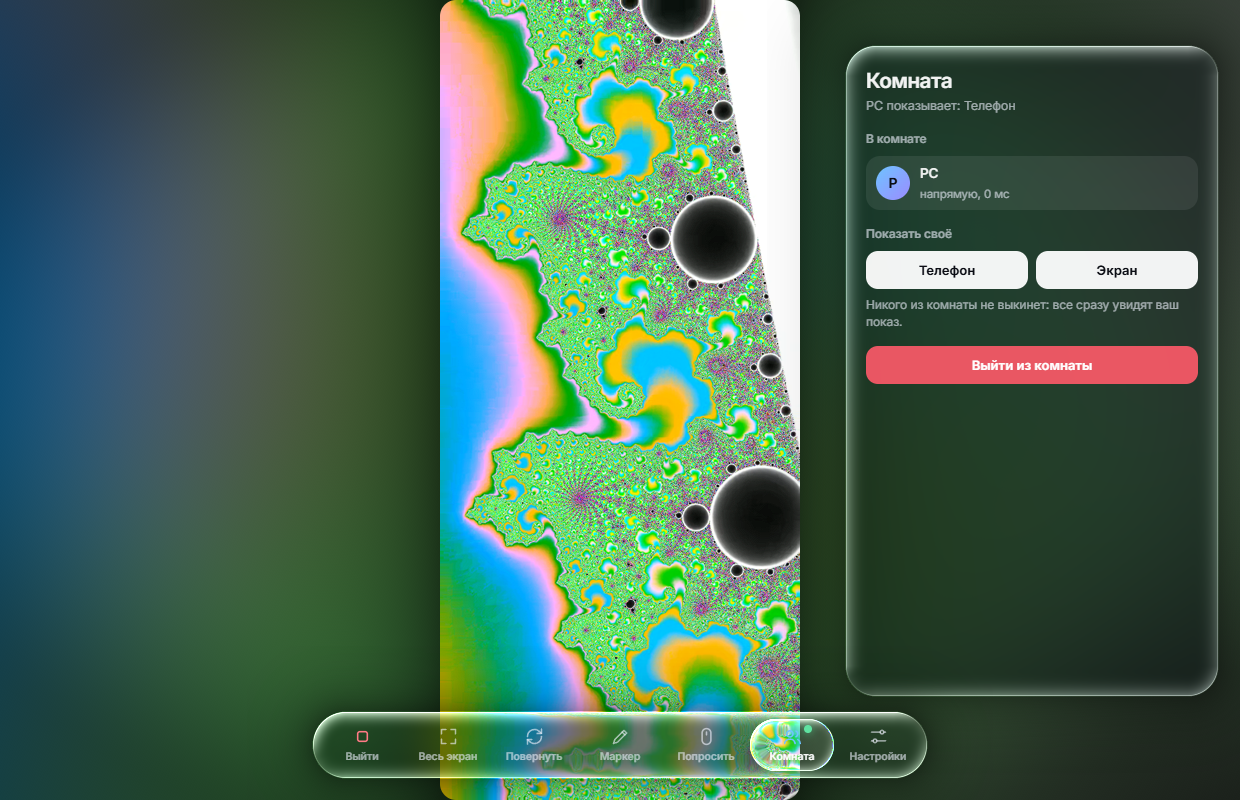
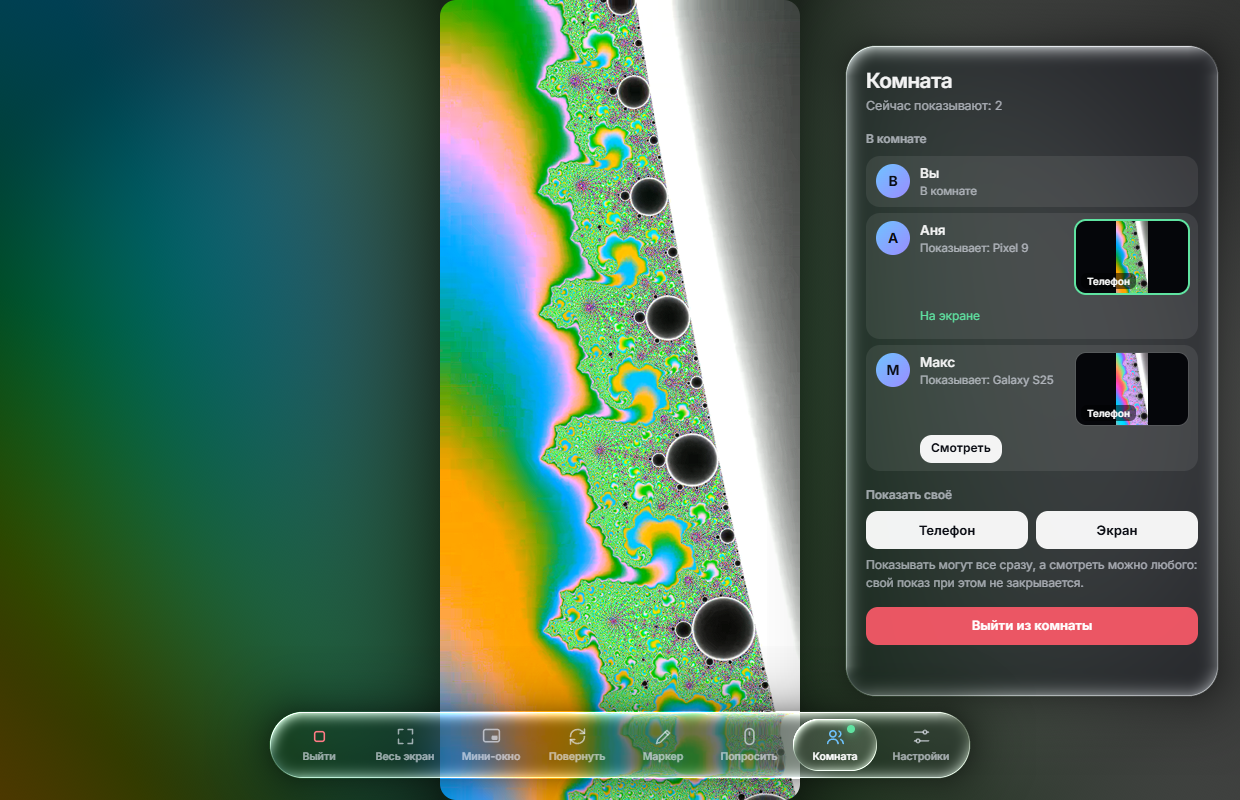
Vitro 0.3.0: project page

diff --git a/docs/index.html b/docs/index.html
@@ -85,8 +85,9 @@
     <div>
       <ul>
         <li><b>Частота как на мониторе.</b> Экран компьютера захватывается и кодируется видеокартой: на 240 Гц идёт 240 настоящих кадров.</li>
-        <li><b>Телефон на быстром мониторе.</b> Недостающие кадры дорисовываются по карте движения: телефон на 120 Гц заполняет монитор на 240 Гц.</li>
-        <li><b>Свои фильтры.</b> Масштабирование Lanczos и адаптивная резкость, текст остаётся текстом.</li>
+        <li><b>Телефон на быстром мониторе.</b> Недостающие кадры дорисовываются: движение ищется до долей пикселя, поэтому текст при прокрутке не плывёт и не двоится.</li>
+        <li><b>Нейросеть для маленького видео.</b> Обученная сеть прямо на видеокарте удваивает картинку и возвращает детали, когда видео растянуто на большой монитор.</li>
+        <li><b>Только видео.</b> Чёрные поля с подписями и кнопками вокруг видео убираются сами, одним тумблером можно вернуть экран как на телефоне.</li>
         <li><b>HDR и пресеты.</b> Меняются на лету, прямо во время трансляции.</li>
       </ul>
     </div>
@@ -107,14 +108,15 @@
 
   <h2>Комнаты вместо демонстрации</h2>
   <p class="sub">Зовёте друга из Steam, и он оказывается рядом с вами. Смотрите телефоны и экраны друг друга в обычном окне: сворачиваете, переключаетесь, играете, а звук идёт дальше.</p>
-  <img class="shot" src="room.png" alt="Комната: показать своё может любой" />
+  <img class="shot" src="room.png" alt="Комната: участники, их показы и мини-окна" />
   <div class="grid">
     <div class="card"><h3>Комната остаётся</h3><p>Остановили показ, сменили телефон на компьютер и обратно: никого не выкидывает, все ждут новую картинку.</p></div>
-    <div class="card"><h3>Показать может любой</h3><p>Неважно, кто создал комнату. Нажали на устройство, и все видят ваш телефон или экран.</p></div>
+    <div class="card"><h3>Показывают все сразу</h3><p>У каждого рядом с аватаркой мини-окно с его показом. Нажали и смотрите его, а ваш показ при этом продолжается.</p></div>
     <div class="card"><h3>Своё окно выбора</h3><p>Экраны и окна стеклянными карточками с превью. Никаких системных диалогов и плашек браузера.</p></div>
     <div class="card"><h3>Маркеры</h3><p>Ручка, маркер, стрелка, лазерная указка и цвета на панели слева. Покажите другу, куда нажать.</p></div>
     <div class="card"><h3>Управление по кнопке</h3><p>Даёте его конкретному человеку и забираете в любой момент. <kbd>Ctrl+Alt+X</kbd> из любой программы мгновенно обрывает показ.</p></div>
-    <div class="card"><h3>Запрет приложений</h3><p>Перед выдачей управления выбираете, куда нельзя заходить. Банки отмечаются сами.</p></div>
+    <div class="card"><h3>Запрет приложений</h3><p>Перед выдачей управления выбираете, куда нельзя заходить. Запрещённое размыто на картинке, управлять им нельзя. Банки отмечаются сами.</p></div>
+    <div class="card"><h3>Без эха из Discord</h3><p>Голосовые чаты не попадают в показ: друг не услышит сам себя.</p></div>
   </div>
 
   <h2>Что показать, решаете вы</h2>
